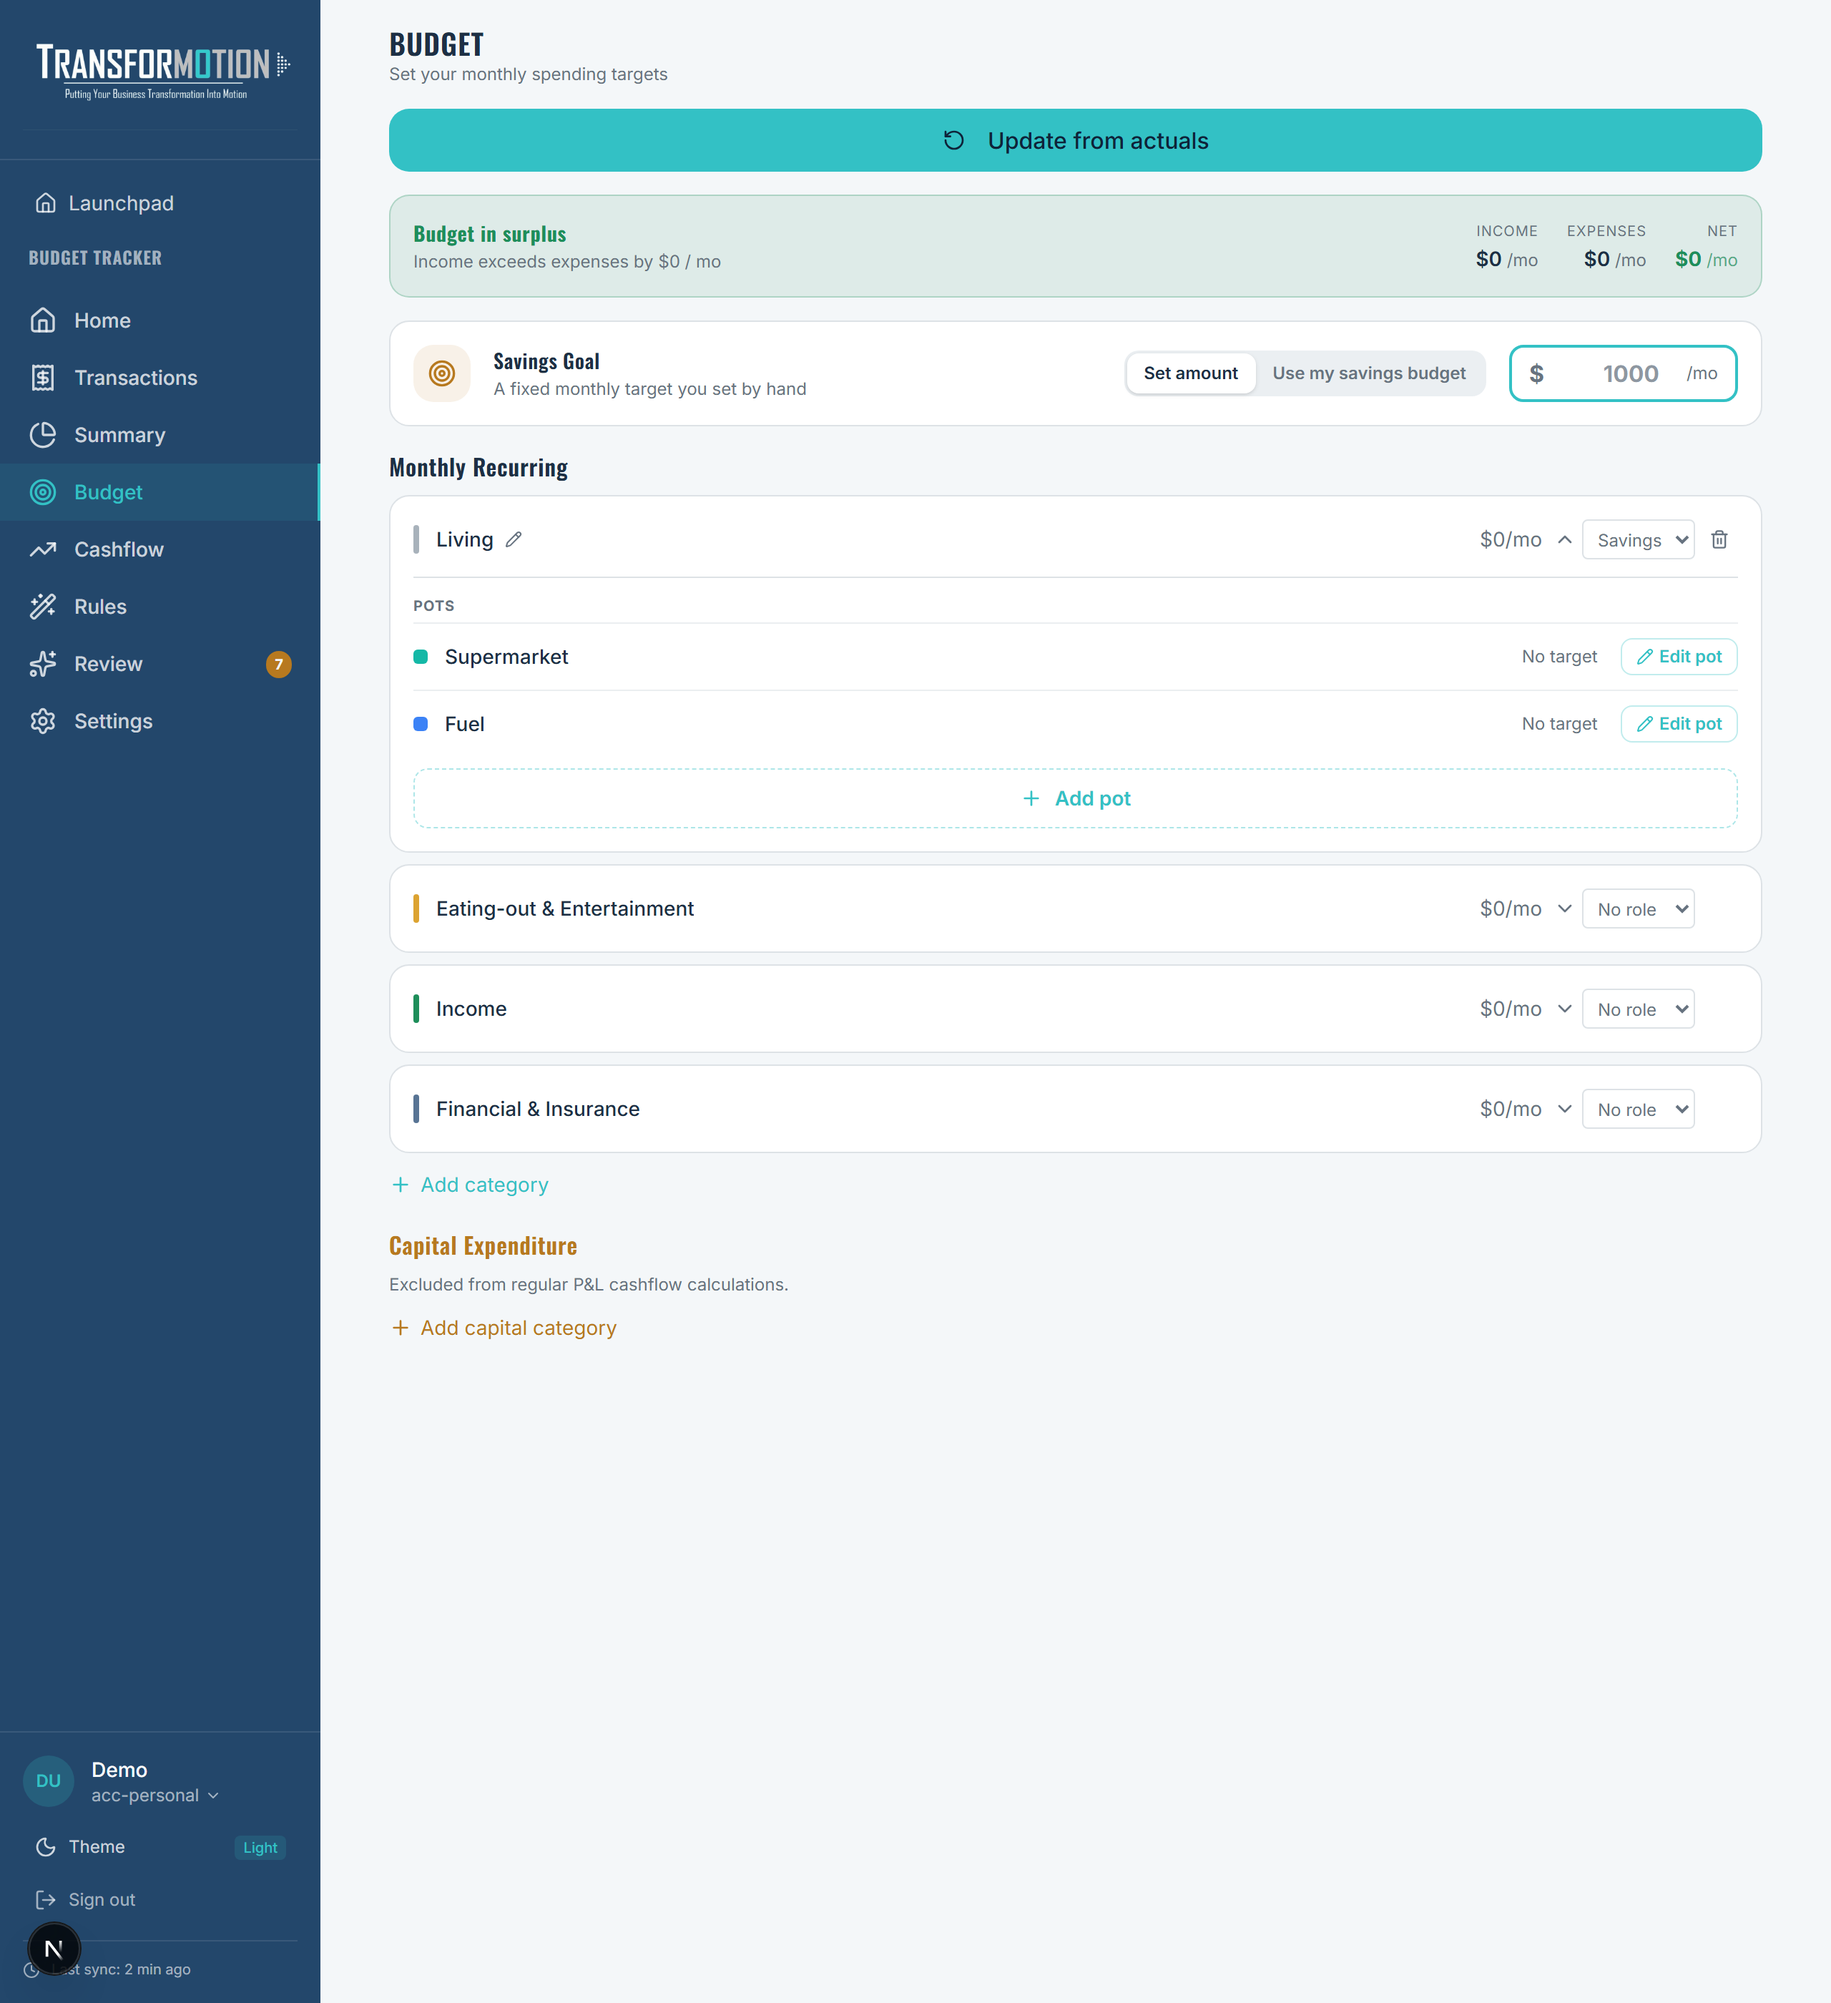
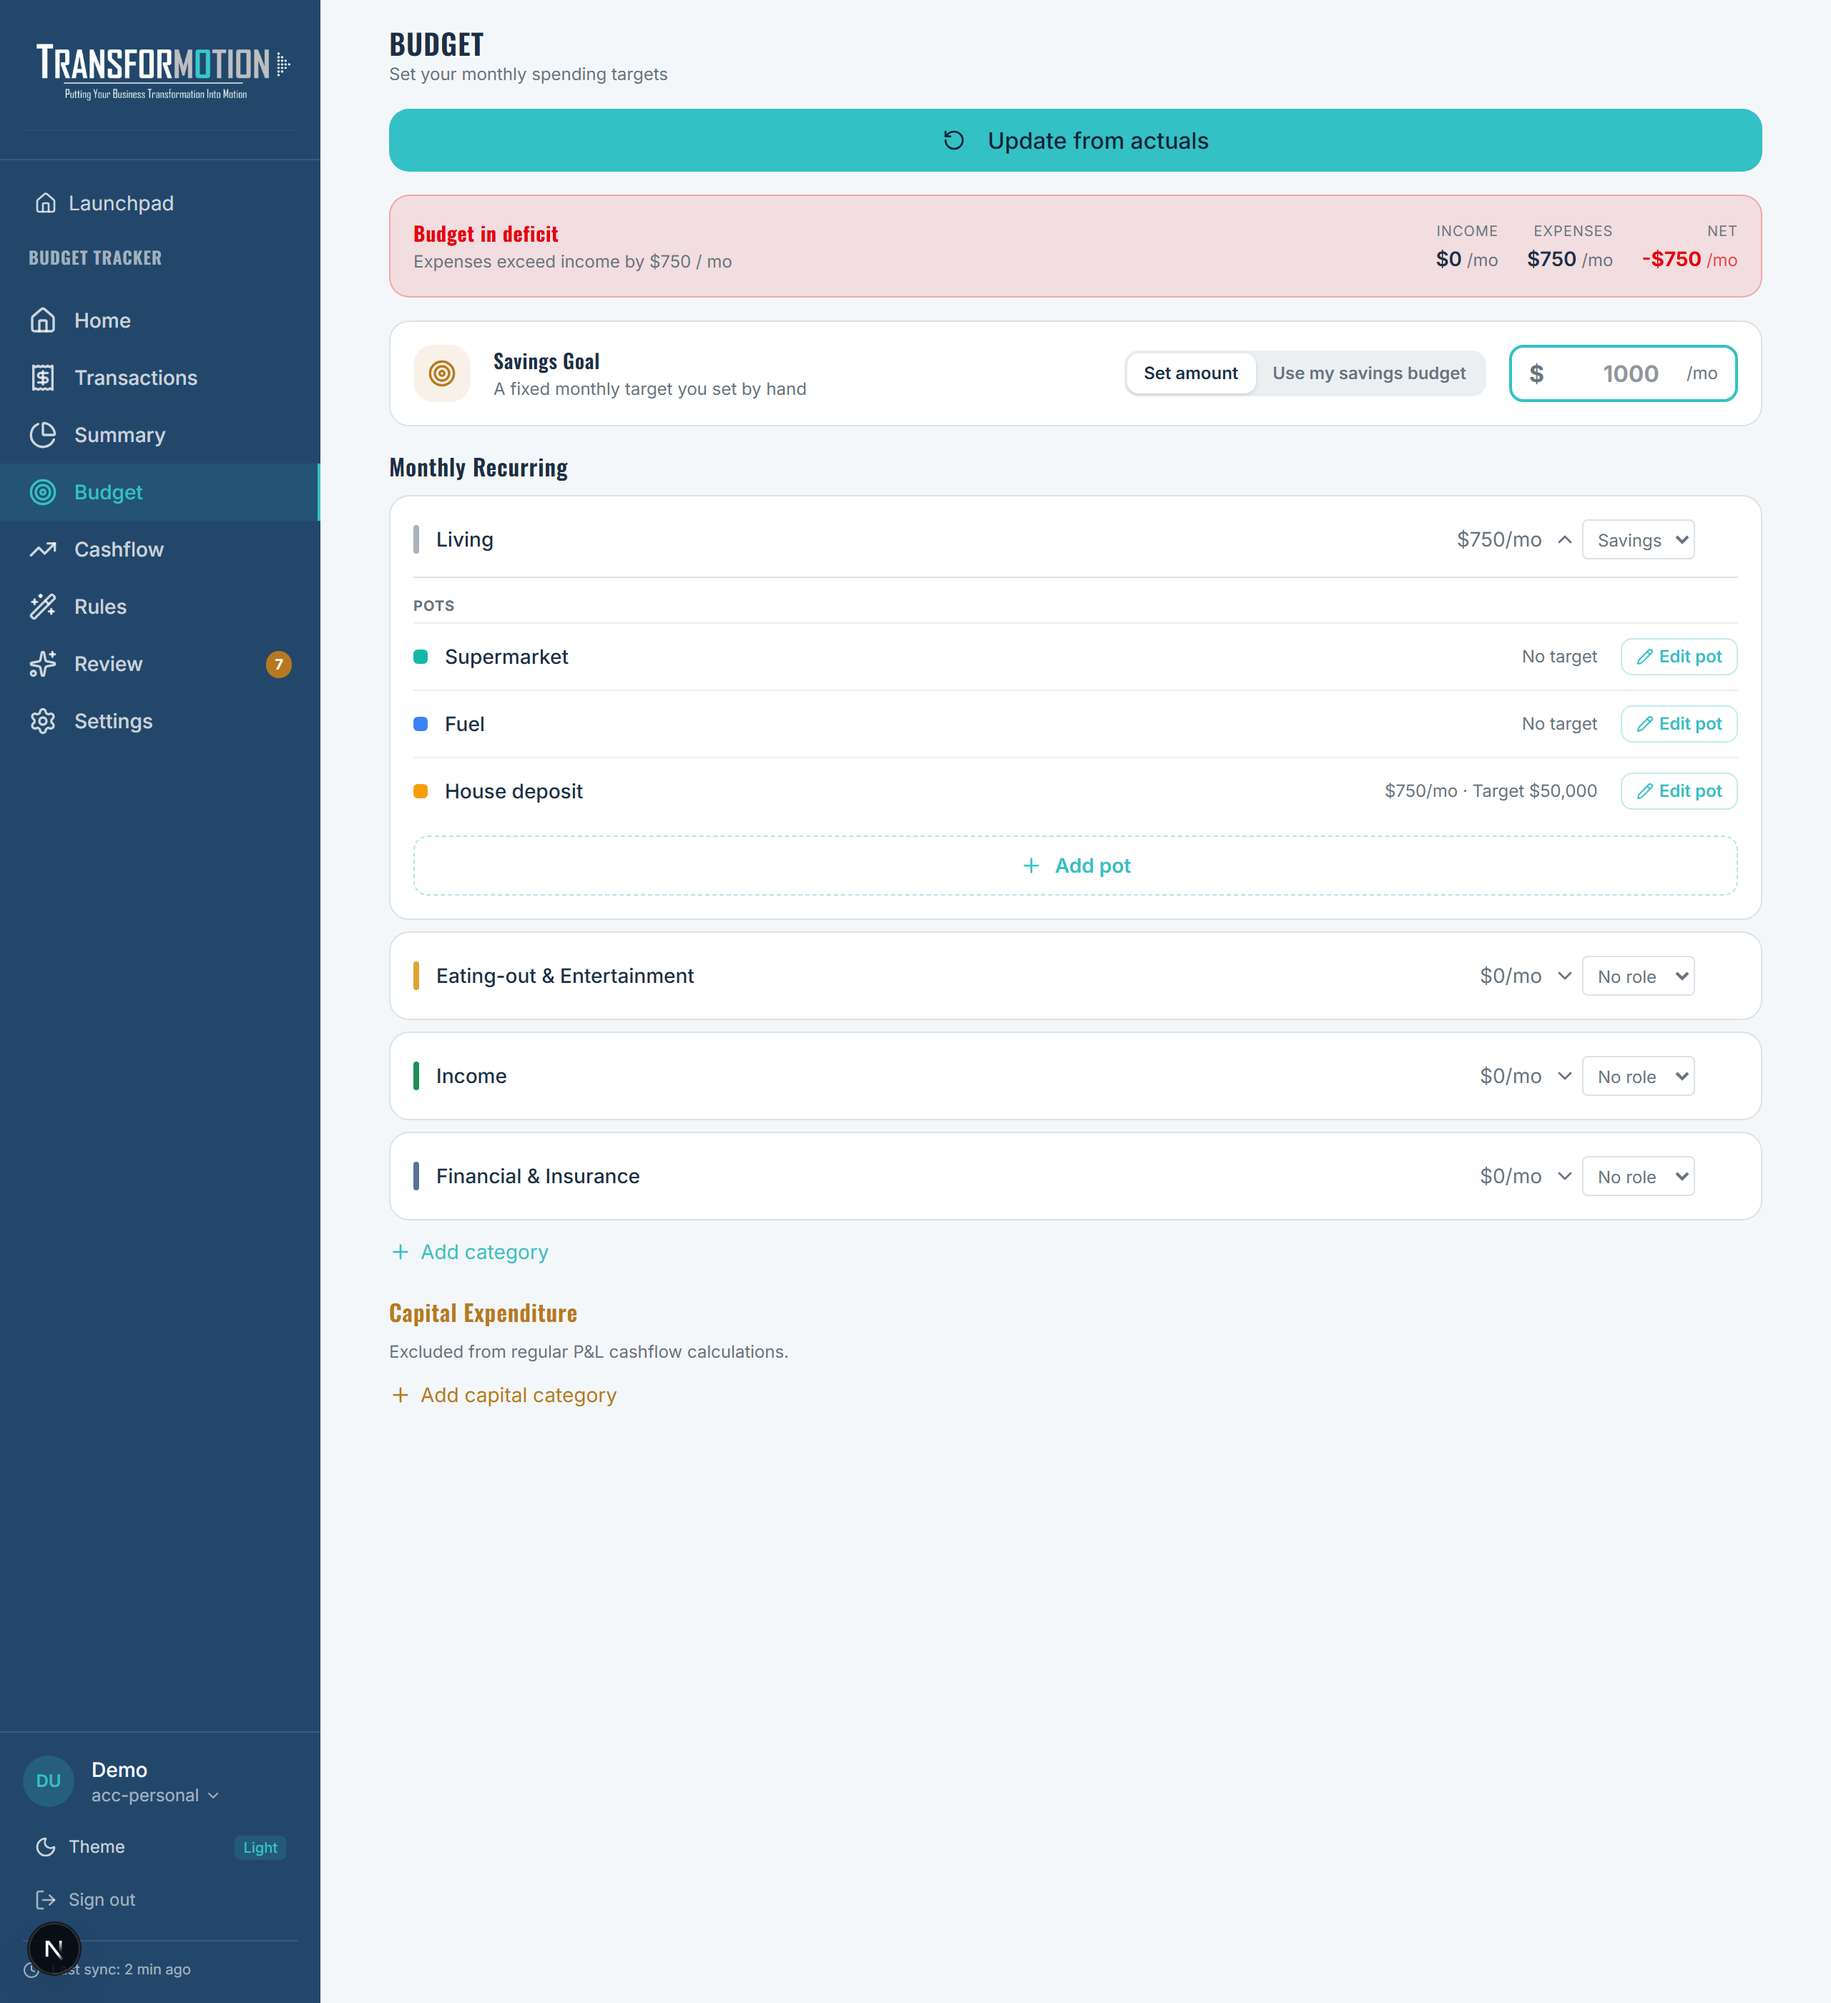
feat(bt-budget): monthly-contribution field in pot modals (closes derived seam)
Amendment to the savings-pots Budget-tab UI. Adds "Monthly contribution" as a
fourth field (above target/deadline/opening) in both the Add pot and Edit pot
modals. It writes the pot's ordinary per-subcategory budget amount
(budgetData.budgetAmounts) — the same value any subcategory's budget uses — so
there is NO contract change and NO new storage. Frequency is left at the
subcategory's existing default (monthly); no frequency picker is added.

This closes the seam flagged in the prior revision: role assignment no longer
strands budget editing for savings subcategories, and the derived savings goal
(Σ monthly savings budgets) is now reachable to a non-zero figure entirely
in-UI.

Also:
- Pot row summary leads with the contribution, e.g. "$500/mo · Target $15,000".
- Add-pot intro copy updated to list the contribution among the optional fields.
- Screenshot surface drives a $750/mo contribution so the derived state and pot
  rows demonstrate a real figure; refreshed (a') captures accordingly.

diff --git a/apps/budget-tracker/components/budget-tracker/tabs/budget-tab.tsx b/apps/budget-tracker/components/budget-tracker/tabs/budget-tab.tsx
@@ -49,10 +49,11 @@ function formatPotDeadline(ym: string): string {
   return new Date(y, m - 1, 1).toLocaleString("en-AU", { month: "short", year: "numeric" })
 }
 
-// One-line summary of a pot's set fields, matching the mock: "Target $X",
-// "Target $X · Dec 2027", or "No target" when neither is set.
-function potSummary(sub: Subcategory): string {
+// One-line summary of a pot: monthly contribution then set fields, e.g.
+// "$500/mo · Target $15,000 · Dec 2027", or "No target" when nothing is set.
+function potSummary(sub: Subcategory, monthlyContribution: number): string {
   const parts: string[] = []
+  if (monthlyContribution > 0) parts.push(`${formatCurrency(monthlyContribution)}/mo`)
   if (sub.potTarget != null) parts.push(`Target ${formatCurrency(sub.potTarget)}`)
   if (sub.potDeadline) parts.push(formatPotDeadline(sub.potDeadline))
   return parts.length ? parts.join(" · ") : "No target"
@@ -98,6 +99,7 @@ export function BudgetTab() {
     | { kind: "edit"; categoryId: string; subcategoryId: string }
   const [potModal, setPotModal] = useState<PotModal | null>(null)
   const [potName, setPotName] = useState("")
+  const [potContributionInput, setPotContributionInput] = useState("")
   const [potTargetInput, setPotTargetInput] = useState("")
   const [potDeadlineInput, setPotDeadlineInput] = useState("")
   const [potOpeningInput, setPotOpeningInput] = useState("")
@@ -286,6 +288,7 @@ export function BudgetTab() {
   function openAddPot(categoryId: string) {
     setPotModal({ kind: "add", categoryId })
     setPotName("")
+    setPotContributionInput("")
     setPotTargetInput("")
     setPotDeadlineInput("")
     setPotOpeningInput("")
@@ -294,13 +297,18 @@ export function BudgetTab() {
   function openEditPot(categoryId: string, sub: Subcategory) {
     setPotModal({ kind: "edit", categoryId, subcategoryId: sub.subcategoryId })
     setPotName(sub.name)
+    // Monthly contribution is the pot's ordinary per-subcategory budget amount.
+    const contribution = getBudgetAmount(sub.subcategoryId)
+    setPotContributionInput(contribution > 0 ? String(contribution) : "")
     setPotTargetInput(sub.potTarget != null ? String(sub.potTarget) : "")
     setPotDeadlineInput(sub.potDeadline ?? "")
     setPotOpeningInput(sub.potOpeningBalance != null ? String(sub.potOpeningBalance) : "")
   }
 
   // Create a pot: same custom-subcategory mechanism as addSubcategory, plus the
-  // optional pot fields. Role is inherited from the parent savings category.
+  // optional pot fields. Role is inherited from the parent savings category. The
+  // monthly contribution rides the ordinary budgetAmounts path (frequency defaults
+  // to monthly — no separate storage, no contract change).
   function createPot() {
     if (potModal?.kind !== "add") return
     const name = potName.trim()
@@ -311,20 +319,29 @@ export function BudgetTab() {
       displayOrder: Date.now(),
       ...parsePotFields(),
     }
+    const contribution = parseFloat(potContributionInput) || 0
     const updatedCategories = categories.map(cat =>
       cat.categoryId === potModal.categoryId
         ? { ...cat, subcategories: [...cat.subcategories, newSub] }
         : cat
     )
-    updateBudgetData({ categories: updatedCategories })
+    updateBudgetData({
+      categories: updatedCategories,
+      budgetAmounts:
+        contribution > 0
+          ? { ...budgetData.budgetAmounts, [newSub.subcategoryId]: contribution }
+          : budgetData.budgetAmounts,
+    })
     setPotModal(null)
   }
 
-  // Save pot: update only the three pot fields on the subcategory (no name edit,
-  // no delete — those are owned by the existing subcategory mechanisms).
+  // Save pot: update the three pot fields plus the monthly contribution (the
+  // ordinary budgetAmounts value; frequency left as-is). No name edit, no delete
+  // — those are owned by the existing subcategory mechanisms.
   function savePot() {
     if (potModal?.kind !== "edit") return
     const fields = parsePotFields()
+    const contribution = parseFloat(potContributionInput) || 0
     const updatedCategories = categories.map(cat =>
       cat.categoryId !== potModal.categoryId
         ? cat
@@ -335,7 +352,10 @@ export function BudgetTab() {
             ),
           }
     )
-    updateBudgetData({ categories: updatedCategories })
+    updateBudgetData({
+      categories: updatedCategories,
+      budgetAmounts: { ...budgetData.budgetAmounts, [potModal.subcategoryId]: contribution },
+    })
     setPotModal(null)
   }
 
@@ -601,7 +621,9 @@ export function BudgetTab() {
                     style={{ backgroundColor: POT_DOT_COLORS[idx % POT_DOT_COLORS.length] }}
                   />
                   <span className="flex-1 min-w-0 text-sm font-medium text-foreground truncate">{sub.name}</span>
-                  <span className="text-xs text-muted-foreground mr-4 shrink-0">{potSummary(sub)}</span>
+                  <span className="text-xs text-muted-foreground mr-4 shrink-0">
+                    {potSummary(sub, toMonthlyAmount(getBudgetAmount(sub.subcategoryId), getBudgetFrequency(sub.subcategoryId)))}
+                  </span>
                   <button
                     onClick={() => openEditPot(category.categoryId, sub)}
                     className="shrink-0 inline-flex items-center gap-1 rounded-md border border-primary/30 px-2.5 py-1 text-xs font-semibold text-primary hover:bg-primary/5 transition-colors"
@@ -1064,7 +1086,7 @@ export function BudgetTab() {
               {potModal.kind === "add" ? (
                 <>
                   A new subcategory under <span className="font-medium text-foreground">{potModalCatName}</span>.
-                  Target, deadline and opening balance are all optional — a pot with none is a simple sinking fund.
+                  Contribution, target, deadline and opening balance are all optional — a pot with none is a simple sinking fund.
                 </>
               ) : (
                 <>
@@ -1085,6 +1107,29 @@ export function BudgetTab() {
                 />
               </div>
             )}
+
+            <label className="block text-xs font-semibold text-muted-foreground mb-1.5">
+              Monthly contribution{potModal.kind === "add" && <span className="font-normal text-muted-foreground/60"> (optional)</span>}
+            </label>
+            <div className="flex gap-2 mb-3.5">
+              <div className="flex-1 flex items-center h-10 px-3 bg-card border border-border rounded-lg">
+                <span className="text-muted-foreground font-bold">$</span>
+                <input
+                  type="number"
+                  value={potContributionInput}
+                  onChange={(e) => setPotContributionInput(e.target.value)}
+                  placeholder="None"
+                  className="w-full px-1 bg-transparent text-sm text-foreground outline-none"
+                />
+                <span className="text-muted-foreground text-xs ml-1">/mo</span>
+              </div>
+              <button
+                onClick={() => setPotContributionInput("")}
+                className="px-3.5 rounded-lg border border-border bg-surface2 text-xs font-semibold text-muted-foreground hover:text-foreground"
+              >
+                Clear
+              </button>
+            </div>
 
             <label className="block text-xs font-semibold text-muted-foreground mb-1.5">
               Target amount{potModal.kind === "add" && <span className="font-normal text-muted-foreground/60"> (optional)</span>}
